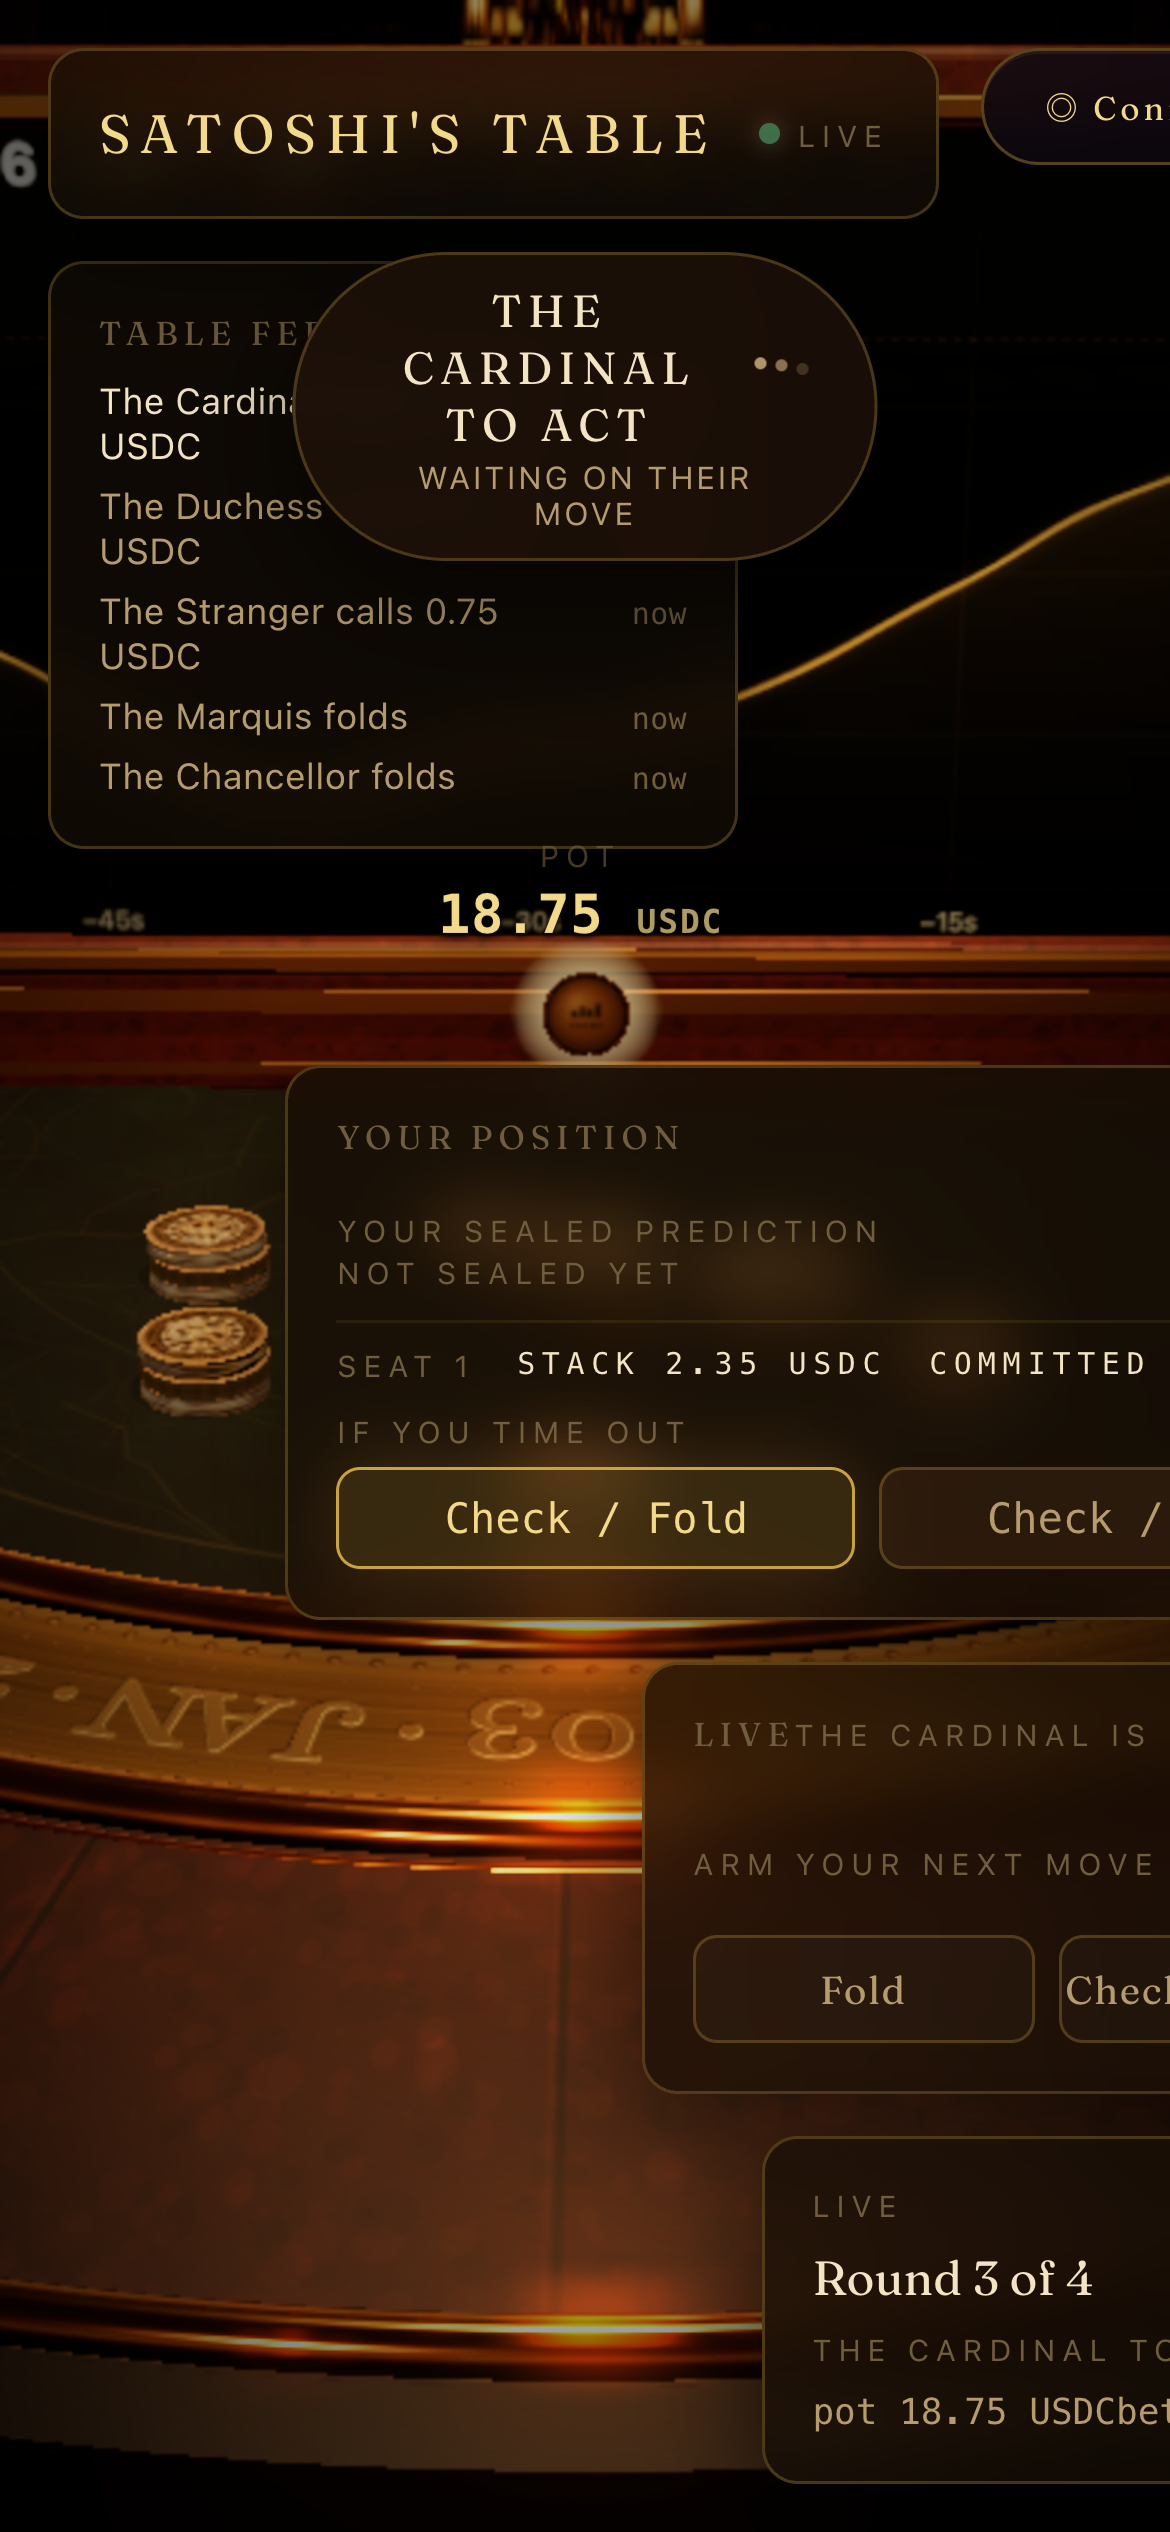
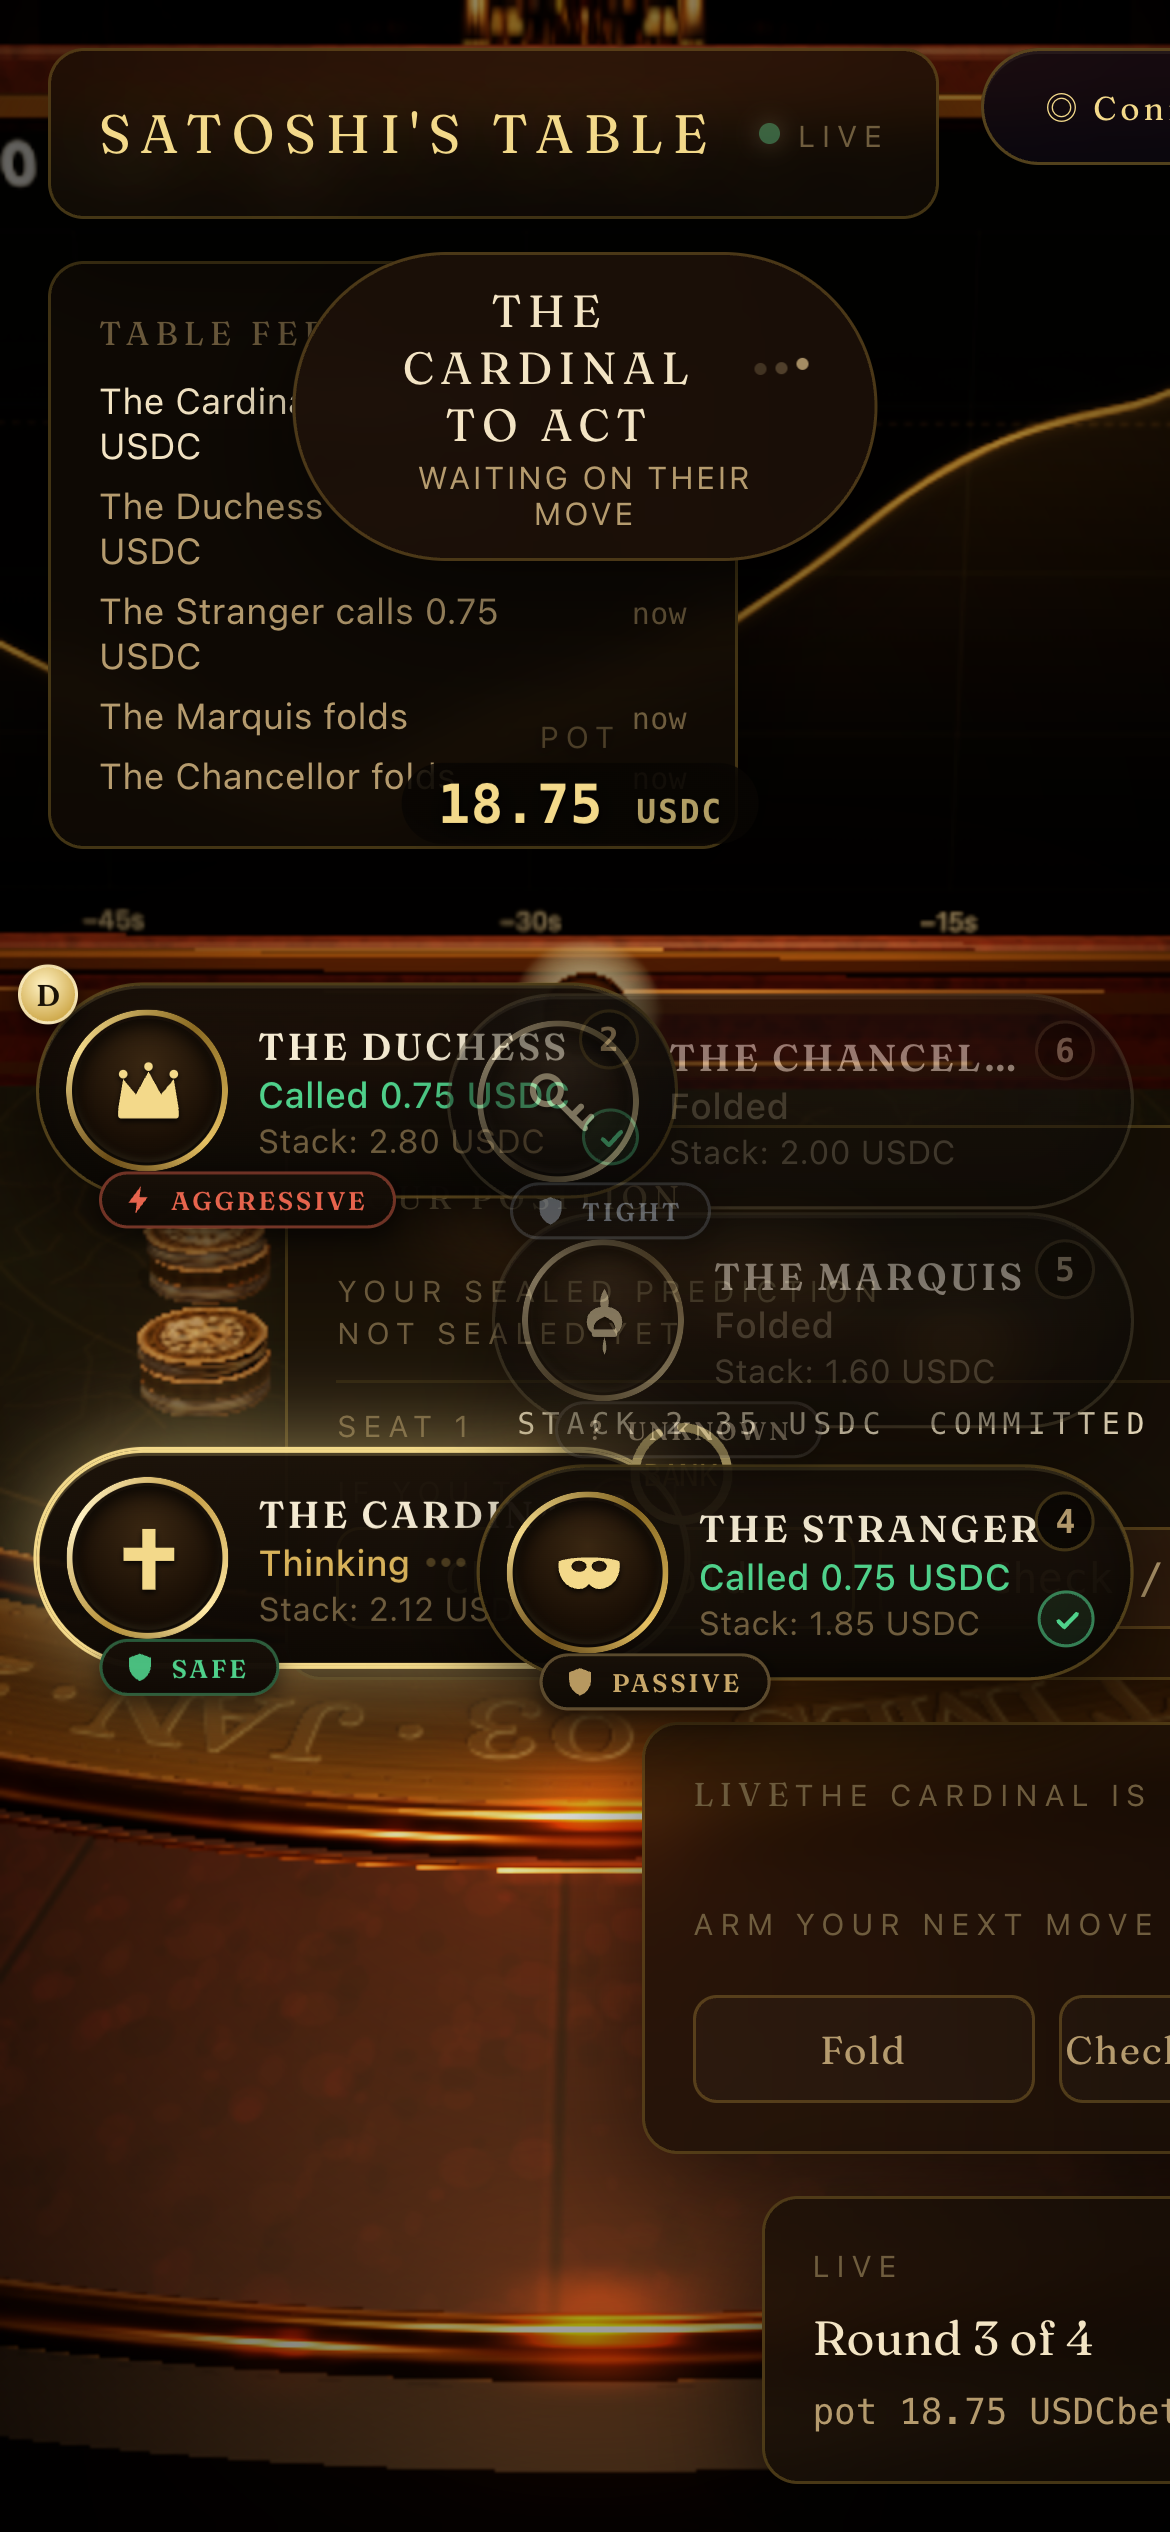
pass2

diff --git a/src/lib/useAnchor.ts b/src/lib/useAnchor.ts
@@ -1,9 +1,24 @@
 import { useEffect, useRef } from 'react'
 import type { ScreenPoint } from '@/three/table/tableView'
 
+/** Options for pinning a projected 3D anchor. */
+interface AnchorOptions {
+  /**
+   * Keep the element fully on-screen by clamping its centre so its bounding box
+   * stays this many px inside the viewport. The node still rides the table as the
+   * camera sways; it just parks at the edge instead of clipping off it (used by the
+   * table seat pods, whose extreme side seats would otherwise run past the frame).
+   */
+  clampMargin?: number
+}
+
 /** Pin a DOM node to a projected 3D anchor, updated every animation frame. */
-export function useAnchor<T extends HTMLElement = HTMLDivElement>(project: () => ScreenPoint | null) {
+export function useAnchor<T extends HTMLElement = HTMLDivElement>(
+  project: () => ScreenPoint | null,
+  opts: AnchorOptions = {},
+) {
   const ref = useRef<T>(null)
+  const { clampMargin } = opts
   useEffect(() => {
     let raf = 0
     const tick = () => {
@@ -15,11 +30,19 @@ export function useAnchor<T extends HTMLElement = HTMLDivElement>(project: () =>
         el.style.opacity = '0'
         return
       }
+      let { x, y } = p
+      if (clampMargin != null) {
+        const hw = el.offsetWidth / 2
+        const hh = el.offsetHeight / 2
+        // Lower bound wins if the element is wider/taller than the safe area.
+        x = Math.min(Math.max(x, clampMargin + hw), window.innerWidth - clampMargin - hw)
+        y = Math.min(Math.max(y, clampMargin + hh), window.innerHeight - clampMargin - hh)
+      }
       el.style.opacity = ''
-      el.style.transform = `translate(${p.x}px, ${p.y}px) translate(-50%, -50%)`
+      el.style.transform = `translate(${x}px, ${y}px) translate(-50%, -50%)`
     }
     tick()
     return () => cancelAnimationFrame(raf)
-  }, [project])
+  }, [project, clampMargin])
   return ref
 }

diff --git a/src/components/hud/RoundStatus.tsx b/src/components/hud/RoundStatus.tsx
@@ -1,6 +1,5 @@
 import { useGameStore } from '@/store/gameStore'
 import { formatChips, formatCountdown } from '@/lib/format'
-import { seatAlias } from '@/lib/seats'
 import { useNow } from '@/lib/useNow'
 import type { MatchPhase } from '@/lib/protocol'
 import { useWaiting } from './WaitingRoom'
@@ -55,13 +54,9 @@ export function RoundStatus() {
   const round = Math.min(roundCount, Math.max(match.round, scheduleRound))
   const label = live ? `Round ${round} of ${roundCount}` : PHASE_COPY[match.phase]
 
-  // Whose move it is, phrased from your side of the felt.
-  const toAct =
-    live && match.toActSeat != null
-      ? match.toActSeat === match.yourSeat
-        ? 'Your move'
-        : `${seatAlias(match.toActSeat, match.yourSeat)} to act`
-      : null
+  // Whose-move-it-is lives solely in the top TurnBanner now — this card is the
+  // calm round/pot reference, so it no longer repeats the turn (was a third,
+  // redundant "Your move" competing with the banner and the action panel).
 
   // Streets advance on the server's street schedule, not on betting — so a matched pot
   // with nobody to act is a WAIT, not a stall. Count the window down so it reads that way.
@@ -89,7 +84,6 @@ export function RoundStatus() {
           )}
         </div>
         <div className="round-label">{label}</div>
-        {toAct && <div className="round-toact eyebrow">{toAct}</div>}
         {clock && <div className="round-toact eyebrow mono">{clock}</div>}
         <div className="round-prices mono">
           <span>pot {formatChips(match.pot)} {token}</span>

diff --git a/src/components/hud/YourPosition.tsx b/src/components/hud/YourPosition.tsx
@@ -15,6 +15,9 @@ export function YourPosition() {
   const sealClosed = useGameStore((s) => s.sealClosed)
   const prediction = useGameStore((s) => s.yourPrediction)
   const lastPrice = useGameStore((s) => s.priceHistory.at(-1)?.price ?? null)
+  // On your turn the action panel below shows to-call / committed / stack — so this
+  // panel drops the duplicated money figures and keeps only the seat reference.
+  const yourTurn = useGameStore((s) => s.yourTurn)
 
   const decimals = terms?.decimals ?? 2
   const token = terms?.chipsToken ?? 'USDC'
@@ -66,8 +69,12 @@ export function YourPosition() {
       {match?.yourSeat != null && (
         <div className="position-row eyebrow">
           <span>seat {match.yourSeat + 1}</span>
-          <span className="mono">stack {formatMoney(match.yourStack ?? 0, token)}</span>
-          <span className="mono">committed {formatMoney(match.yourExposure ?? 0, token)}</span>
+          {yourTurn == null && (
+            <>
+              <span className="mono">stack {formatMoney(match.yourStack ?? 0, token)}</span>
+              <span className="mono">committed {formatMoney(match.yourExposure ?? 0, token)}</span>
+            </>
+          )}
         </div>
       )}
 

diff --git a/src/components/hud/TurnBanner.tsx b/src/components/hud/TurnBanner.tsx
@@ -46,18 +46,12 @@ export function TurnBanner() {
         </div>
       )
     }
-    const remaining = yourTurn ? Math.max(0, yourTurn.deadline - now) : null
+    // The countdown lives once, on the action panel's ring below — repeating it here
+    // (and again on the round card) is the "three timers, one turn" clutter we removed.
     return (
       <div className="turn-banner turn-banner--you" role="status" aria-live="polite">
         <span className="turn-banner-label">Your turn</span>
-        <span className="turn-banner-sub">
-          choose an action below ↓
-          {/* aria-hidden: the countdown ticks every 500ms — keeping it out of the live region
-              stops screen readers from re-announcing the whole banner twice a second. */}
-          {remaining != null && (
-            <span aria-hidden="true">{` · ${Math.ceil(remaining / 1000)}s left`}</span>
-          )}
-        </span>
+        <span className="turn-banner-sub">choose an action below ↓</span>
       </div>
     )
   }

diff --git a/src/components/hud/hud.css b/src/components/hud/hud.css
@@ -1222,14 +1222,19 @@
   gap: 3px;
   transition: opacity 0.2s linear;
 }
+/* A dark, softly-blurred scrim keeps the pot figure legible over the 3D coin
+ * pile behind it — the number must never be buried in coins. */
 .pot-amount {
   font-size: 18px;
   font-weight: 600;
   color: var(--gold-bright);
   letter-spacing: 0.2px;
+  padding: 3px 12px;
+  border-radius: 999px;
+  background: radial-gradient(120% 140% at 50% 45%, rgba(8, 5, 2, 0.9) 40%, rgba(8, 5, 2, 0) 100%);
   text-shadow:
-    0 1px 2px rgba(0, 0, 0, 0.9),
-    0 2px 10px rgba(0, 0, 0, 0.75);
+    0 1px 2px rgba(0, 0, 0, 0.95),
+    0 2px 12px rgba(0, 0, 0, 0.85);
 }
 .pot-eyebrow {
   color: var(--gold-bright);

diff --git a/src/three/table/tableView.ts b/src/three/table/tableView.ts
@@ -78,7 +78,7 @@ function seatWorld(angleDeg: number, radius = R_SEAT, y = Y_SEAT): THREE.Vector3
 // The 3D coin heap is centred on (0, felt, 1.1); the amount label floats well
 // clear above the top of the pile (raised so a tall pot never buries the number
 // in coins) and a touch toward the camera so it reads over the heap.
-const POT_WORLD = new THREE.Vector3(0, 1.24, 1.2)
+const POT_WORLD = new THREE.Vector3(0, 1.5, 1.2)
 // The pre-game countdown sits lower and further forward than the pot label so the
 // ring rests on the open felt, clear of the price cabinet behind it.
 const FELT_CENTRE_WORLD = new THREE.Vector3(0, 0.42, 1.42)

diff --git a/src/components/hud/Seats.tsx b/src/components/hud/Seats.tsx
@@ -158,7 +158,10 @@ function OpponentPod({
   token: string
   actionSecs: number
 }) {
-  const ref = useAnchor(useCallback(() => projectSeatAngle(angle), [angle]))
+  // clampMargin keeps the extreme side pods from clipping off the viewport edge —
+  // they ride the table as the camera sways but park at a 12px inset when a seat
+  // would otherwise project past the frame.
+  const ref = useAnchor(useCallback(() => projectSeatAngle(angle), [angle]), { clampMargin: 12 })
   const now = useNow(500)
   const alias = seatAlias(seat.seat, match.yourSeat)
   const status = podStatus(seat, match, feed, token)
